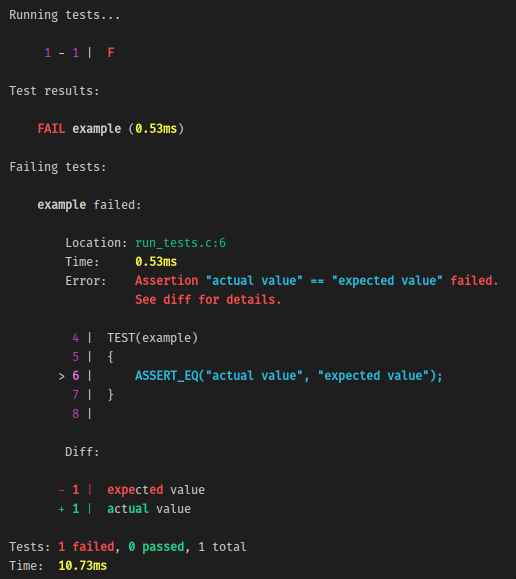
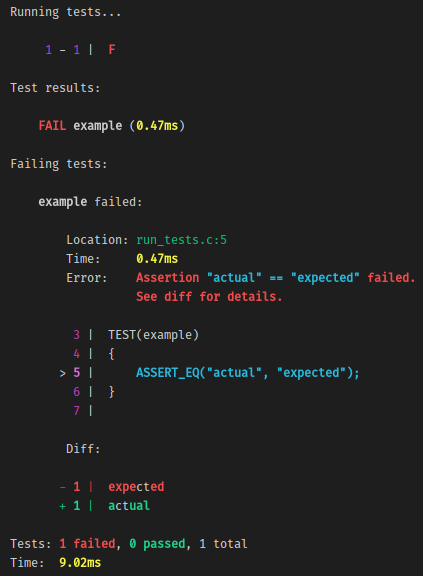
Change example

diff --git a/examples/basic/run_tests.c b/examples/basic/run_tests.c
@@ -1,11 +1,9 @@
 #include "narwhal.h"
 
-
 TEST(example)
 {
-    ASSERT_EQ("actual value", "expected value");
+    ASSERT_EQ("actual", "expected");
 }
-
 
 int main()
 {

diff --git a/README.md b/README.md
@@ -1,11 +1,11 @@
 # Narwhal
 
+<img align="right" width="50%" src="https://raw.githubusercontent.com/vberlier/unicorn/narwhal/examples/basic/test_output.png">
+
 [![Build Status](https://travis-ci.com/vberlier/narwhal.svg?branch=master)](https://travis-ci.com/vberlier/narwhal)
 ![GitHub tag (latest SemVer)](https://img.shields.io/github/tag/vberlier/narwhal.svg)
 
 > Testing made easy with the unicorn of the C.
-
-<img align="right" width="50%" src="https://raw.githubusercontent.com/vberlier/unicorn/narwhal/examples/basic/test_output.png">
 
 Narwhal is a framework that makes it easy to write readable and maintainable tests for C programs and libraries.
 
@@ -14,7 +14,7 @@ Narwhal is a framework that makes it easy to write readable and maintainable tes
 
 TEST(example)
 {
-    ASSERT_EQ("actual value", "expected value");
+    ASSERT_EQ("actual", "expected");
 }
 
 int main()
